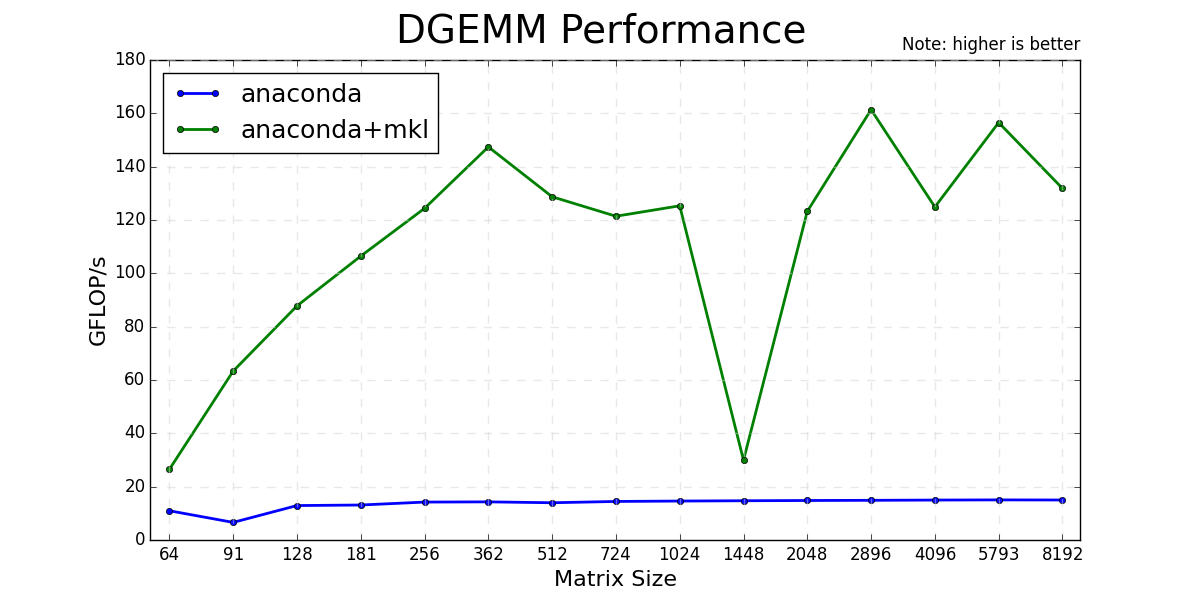
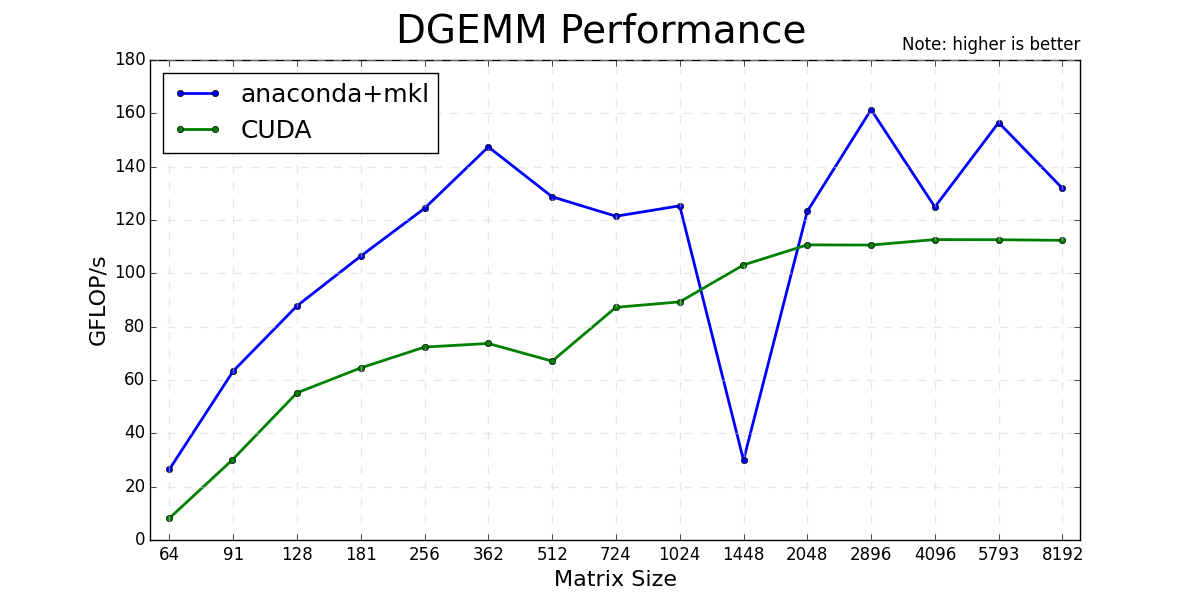
apparently ok cuda dgemm

diff --git a/bench.py b/bench.py
@@ -13,8 +13,29 @@ import time
 import gc
 import os.path
 import cPickle as pickle
+from numbapro.cudalib.cublas import Blas
+from numba import cuda
 
 data_dir = './'
+
+def time_dgemm_cuda(N=100, trials=3, dtype=np.double):
+    A = np.asarray(np.random.rand(N, N), dtype=dtype)
+    B = np.asarray(np.random.rand(N, N), dtype=dtype)
+    C = np.zeros((N, N), dtype=dtype)
+    d_A = cuda.to_device(A)
+    d_B = cuda.to_device(B)
+    d_C = cuda.to_device(C)
+    blas = Blas()
+    gcold = gc.isenabled()
+    gc.disable()
+    tic = time.time()
+    for i in xrange(trials):
+        blas.gemm('N', 'N', N, N, N, 1.0, d_A, d_B, 1.0, d_C )
+    cuda.synchronize()
+    toc = time.time()-tic
+    if gcold:
+        gc.enable()
+    return toc/trials, 2*N*N*N*1e-9
 
 def time_dgemm(N=100, trials=3, dtype=np.double):
     A = np.asarray(np.random.rand(N, N), dtype=dtype)
@@ -95,35 +116,43 @@ def dump_data(data, data_dir, backend, algo):
         pickle.dump(data, data_file)
 
 if __name__ == '__main__':
-    try:
-        import mkl
-        have_mkl = True
-        backend = 'anaconda+mkl'
-        print("Running with MKL Acceleration")
-    except ImportError:
-        have_mkl = False
-        backend = 'anaconda'
-        print("Running with normal backends")
+    if sys.argv[1] == 'cuda':
+        print('Running with CUDA')
+        use_cuda = True
+        backend = 'CUDA'
+    else:
+        try:
+            import mkl
+            have_mkl = True
+            backend = 'anaconda+mkl'
+            print("Running with MKL Acceleration")
+        except ImportError:
+            have_mkl = False
+            backend = 'anaconda'
+            print("Running with normal backends")
 
     print("checking timers...")
     test_timers()
     logNs = np.arange(6,13.5,0.5) # uncomment to run the big stuff
 #    logNs = np.arange(3,7,0.5) # uncomment to run quick tests
-    Ns = np.exp2(logNs)
+    Ns = np.exp2(logNs).astype(np.int32)
     trials = 5
     dtype = np.double
 
     print('benchmarking DGEMM')
-    dgemm_data = bench(time_dgemm, Ns, trials, dtype)
+    if use_cuda:
+        dgemm_data = bench(time_dgemm_cuda, Ns, trials, dtype)
+    else:
+        dgemm_data = bench(time_dgemm, Ns, trials, dtype)
     dump_data(dgemm_data, data_dir, backend, 'DGEMM')
 
-    print('benchmarking Cholesky')
-    cholesky_data = bench(time_cholesky, Ns, trials, dtype)
-    dump_data(cholesky_data, data_dir, backend, 'Cholesky')
+    #print('benchmarking Cholesky')
+    #cholesky_data = bench(time_cholesky, Ns, trials, dtype)
+    #dump_data(cholesky_data, data_dir, backend, 'Cholesky')
 
-    print('benchmarking NumExpr')
-    logNs = np.arange(12, 18.5, 0.5) # uncomment to run big tests
+    #print('benchmarking NumExpr')
+    #logNs = np.arange(12, 18.5, 0.5) # uncomment to run big tests
 #    logNs = np.arange(6,13.5,0.5) # uncomment to run quick tests
-    Ns = np.exp2(logNs)
-    numexpr_data = bench(time_numexpr, Ns, trials, dtype)
-    dump_data(numexpr_data, data_dir, backend, 'NumExpr')
+    #Ns = np.exp2(logNs)
+    #numexpr_data = bench(time_numexpr, Ns, trials, dtype)
+    #dump_data(numexpr_data, data_dir, backend, 'NumExpr')

diff --git a/plot_results.py b/plot_results.py
@@ -15,7 +15,7 @@ import cPickle as pickle
 from matplotlib import ticker
 
 data_dir = './'
-backends = ['anaconda', 'anaconda+mkl']
+backends = ['anaconda+mkl', 'CUDA']
 
 
 def plot_results(algo, datas, xlabel, ylabel, note, factor=None):
@@ -60,14 +60,14 @@ if __name__ == '__main__':
                  'GFLOP/s',
                  'higher is better')
 
-    plot_results('Cholesky',
-                 load_data('Cholesky'),
-                 r'Matrix Size',
-                 'GFLOP/s',
-                 'higher is better')
+    #plot_results('Cholesky',
+    #             load_data('Cholesky'),
+    #             r'Matrix Size',
+    #             'GFLOP/s',
+    #             'higher is better')
 
-    plot_results('NumExpr',
-                 load_data('NumExpr'),
-                 r'Array Size',
-                 'GB/s',
-                 'higher is better')
+    #plot_results('NumExpr',
+    #             load_data('NumExpr'),
+    #             r'Array Size',
+    #             'GB/s',
+     #            'higher is better')
